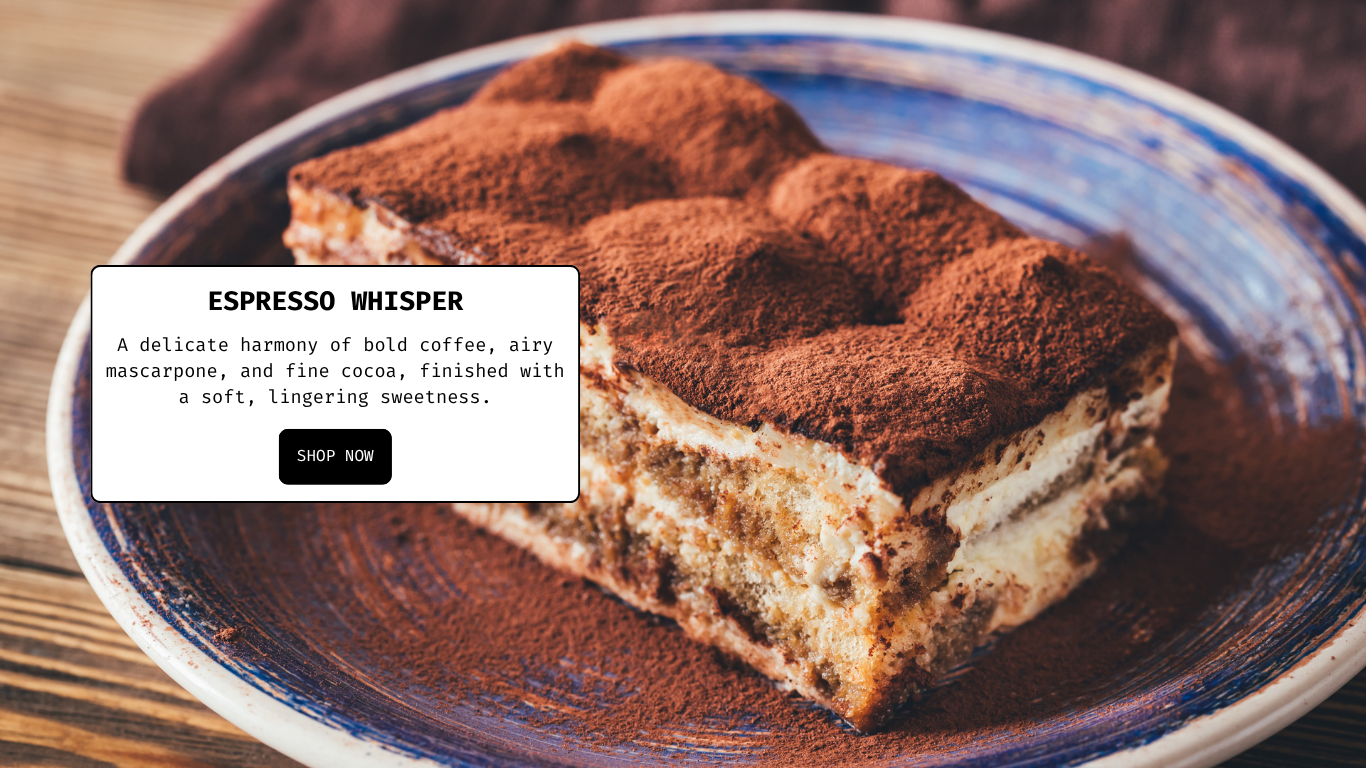
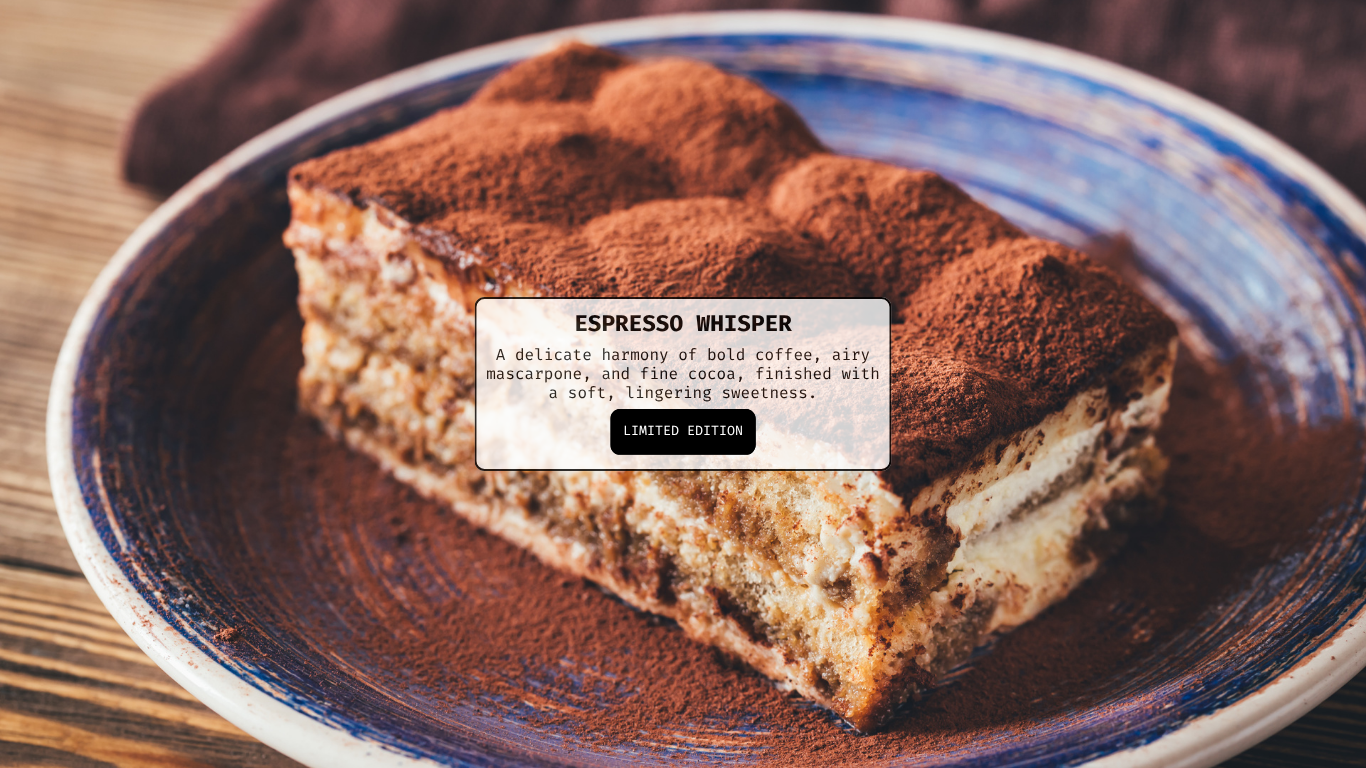
completed

Changed region(s): [[0.0615, 0.3438, 0.6764, 0.6562]]

diff --git a/css-ex/build_day/project.css b/css-ex/build_day/project.css
@@ -395,3 +395,166 @@ main {
     margin: 8px 0 0 0;
     line-height: 1.2;
 }
+/* --- FOOTER SECTION --- */
+.footer {
+    background-color: black;
+    color: white;
+    margin-top: 60px;
+    padding-top: 48px;
+}
+.footer-container {
+    display: grid;
+    grid-template-columns: repeat(4, 1fr);
+    max-width: 1400px;
+    margin: 0 auto;
+    padding: 0 64px;
+}
+.footer-column {
+    list-style: none;
+    padding: 0;
+    margin: 0;
+    display: flex;
+    flex-direction: column;
+    gap: 16px;
+}
+.footer-column a {
+    color: white;
+    font-size: 18px;
+    font-weight: 500;
+    text-decoration: none;
+    letter-spacing: 0.5px;
+    transition: opacity 0.2s ease;
+}
+.footer-column a:hover {
+    opacity: 0.6;
+}
+.footer-bottom-line {
+    border-top: 1px solid rgba(255, 255, 255, 0.3);
+    margin-top: 48px;
+    height: 40px;
+}
+/* ==========================================
+   RESPONSIVE DESIGN (สำหรับหน้าจอมือถือ <= 768px)
+   ========================================== */
+@media (max-width: 768px) {
+
+    /* --- 1. GLOBAL LAYOUT --- */
+    main {
+        padding: 0 16px; /* ลด Padding ซ้าย-ขวา เพื่อเพิ่มพื้นที่หน้าจอ */
+    }
+
+    /* --- 2. HEADER --- */
+    .header-container {
+        padding: 12px 16px;
+        flex-wrap: wrap; /* อนุญาตให้องค์ประกอบตกลงมาบรรทัดใหม่ได้ */
+    }
+
+    .header-logo img {
+        height: 50px; /* ลดขนาดโลโก้ลง */
+    }
+
+    .nav-links {
+        display: none; /* ซ่อนลิงก์เมนูหลักบนมือถือ (ใช้ Dropdown ในเมนูแทน) */
+    }
+
+    .nav-tab {
+        padding: 8px 16px;
+    }
+
+    /* --- 3. MENU CATEGORIES SECTION --- */
+    .menu-content {
+        grid-template-columns: repeat(2, 1fr); /* ปรับจาก 4 เหลือ 2 คอลัมน์ */
+        gap: 12px;
+    }
+
+    .menu-card {
+        height: 120px; /* ลดความสูงการ์ดลง */
+    }
+
+    .card-title {
+        font-size: 16px; /* ลดขนาดฟอนต์ */
+    }
+
+    /* --- 4. HIGHLIGHT SECTION --- */
+    .highlight-content {
+        height: 240px; /* ลดความสูงแบนเนอร์ */
+        margin-top: 24px;
+    }
+
+    /* --- 5. SIGNATURE CAKES SECTION --- */
+    .product-grid {
+        grid-template-columns: repeat(2, 1fr); /* ปรับการ์ดสินค้าเป็น 2 คอลัมน์ */
+        gap: 12px;
+    }
+
+    .product-card figure img {
+        height: 160px; /* ลดความสูงรูปสินค้า */
+    }
+
+    .product-card h3 {
+        font-size: 16px !important;
+    }
+
+    .product-card .price {
+        font-size: 14px !important;
+    }
+
+    /* --- 6. SPECIAL SECTION (BENTO GRID) --- */
+    .special {
+        grid-template-columns: 1fr; /* ปรับเป็น 1 คอลัมน์เรียงต่อกันลงมา */
+        grid-template-rows: auto;
+        gap: 12px;
+    }
+
+    .special-card.large {
+        grid-row: span 1; /* ยกเลิกการยืด 2 แถว */
+        height: 240px;
+    }
+
+    .special-card {
+        height: 180px;
+    }
+
+    /* --- 7. STORES SECTION --- */
+    .store-grid {
+        grid-template-columns: 1fr; /* ปุ่มสาขาปรับเป็น 1 คอลัมน์เต็มหน้าจอ */
+        gap: 10px;
+    }
+
+    .store-btn {
+        height: 50px;
+        font-size: 12px;
+    }
+
+    /* --- 8. MEMBER / NEWSLETTER SECTION --- */
+    .member {
+        flex-direction: column; /* เปลี่ยนแนวนอนเป็นแนวตั้ง */
+        align-items: stretch;
+        gap: 24px;
+    }
+
+    .member-info {
+        flex-direction: column;
+        text-align: center;
+    }
+
+    .member-info h2 {
+        max-width: 100%;
+        font-size: 14px;
+    }
+
+    .form-group {
+        flex-direction: column; /* ให้ช่อง E-mail กับปุ่มกด อยู่คนละบรรทัด */
+    }
+
+    .newsletter-form button {
+        width: 100%;
+    }
+
+    /* --- 9. FOOTER --- */
+    .footer-container {
+        grid-template-columns: repeat(2, 1fr); /* แบ่งฟุตเตอร์เป็น 2 คอลัมน์ */
+        gap: 32px 16px;
+        padding: 0 20px;
+    }
+}

diff --git a/css-ex/build_day/project.html b/css-ex/build_day/project.html
@@ -198,8 +198,37 @@
      </section>
      </main>
     <!-- FOOTER -->
-     <footer>
-        <p>&copy; 2026 P Pastry. All rights reserved.</p>
-     </footer>
+     <footer class="footer">
+        <nav class="footer-container">
+
+        <ul class="footer-column">
+            <li><a href="#">SHOP</a></li>
+            <li><a href="#">CELEBRATIONS</a></li>
+            <li><a href="#">MERCH</a></li>
+            <li><a href="#">GIFT CARDS</a></li>
+        </ul>
+
+        <ul class="footer-column">
+            <li><a href="#">ABOUT</a></li>
+            <li><a href="#">SPECIAL NEWS</a></li>
+            <li><a href="#">COLLABS</a></li>
+            <li><a href="#">SUBSCRIBE</a></li>
+        </ul>
+
+        <ul class="footer-column">
+            <li><a href="#">LOCATIONS</a></li>
+            <li><a href="#">WHOLESALE</a></li>
+            <li><a href="#">DELIVERY</a></li>
+            <li><a href="#">FAQS</a></li>
+        </ul>
+
+        <ul class="footer-column">
+            <li><a href="#">CONTACT</a></li>
+            <li><a href="#">CAREERS</a></li>
+            <li><a href="#">T&CS</a></li>
+        </ul>
+    </nav>
+        <div class="footer-bottom-line"></div>
+</footer>
 </body>
 </html>